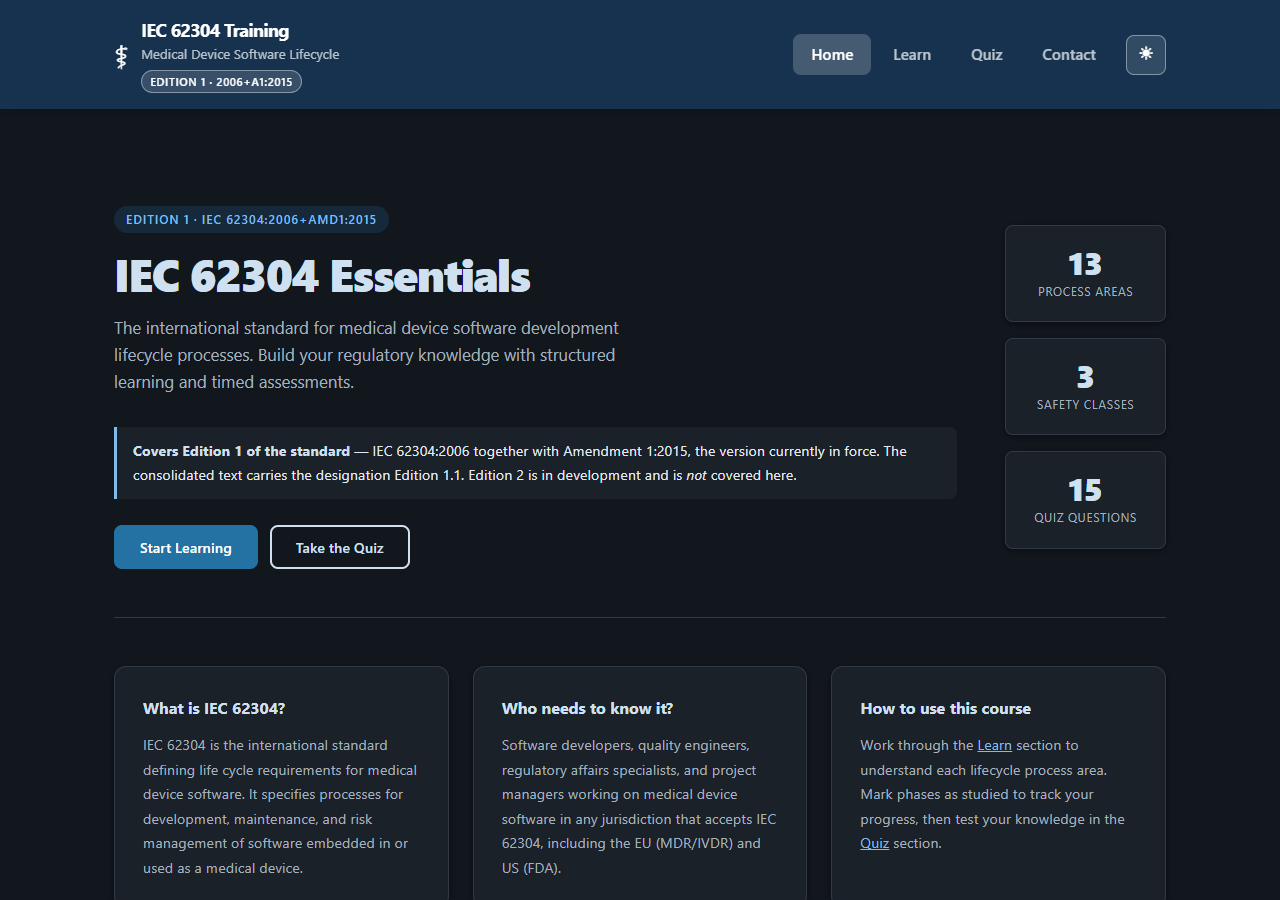
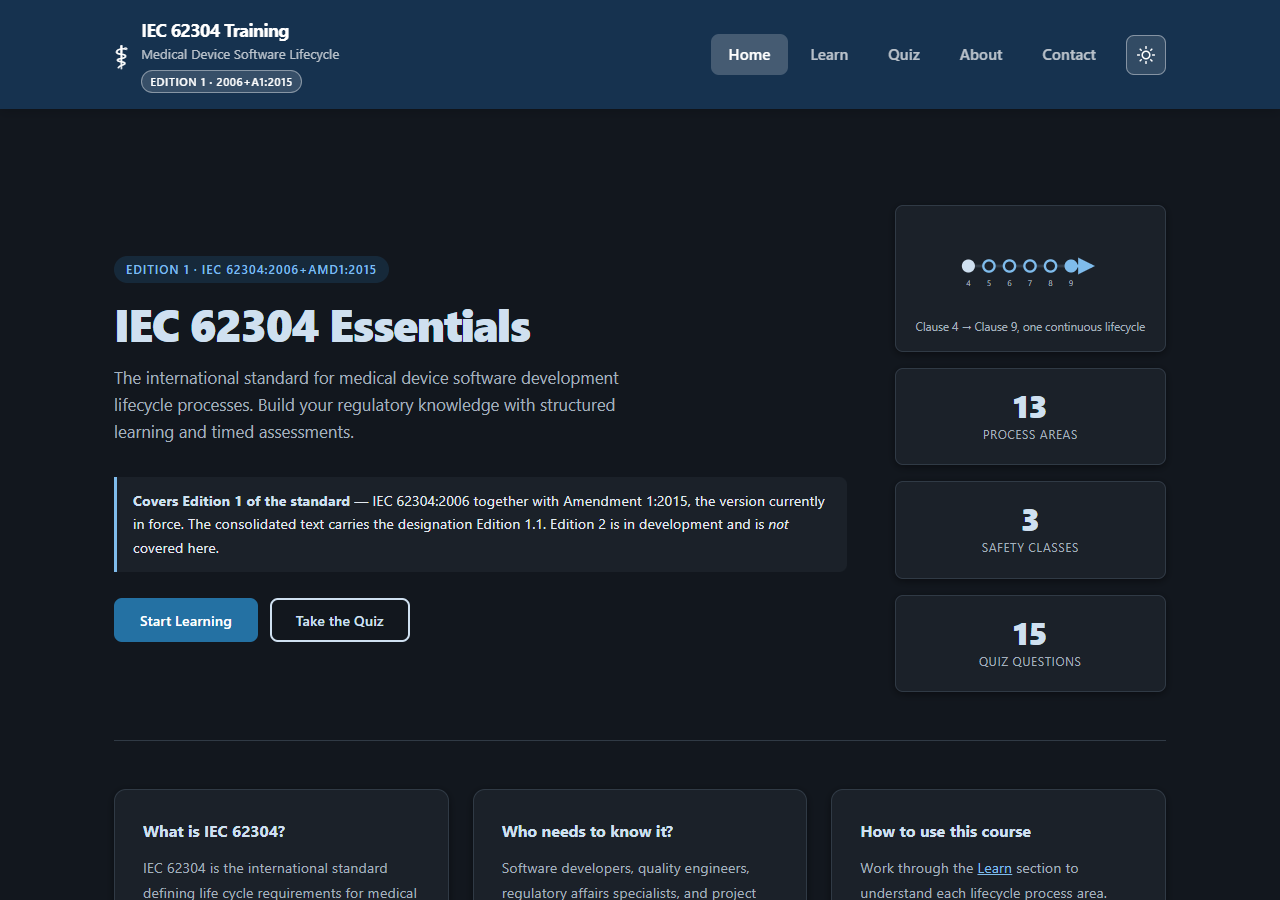
Adding a graphic to index page - as it is a bit boring right now! A simple flow (flow.svg) diagram of the clauses as a graphic-card in the hero section. All tests passed .

diff --git a/index.html b/index.html
@@ -103,6 +103,37 @@
           </div>
         </div>
         <div class="hero-stats">
+          <!-- LIFECYCLE FLOW GRAPHIC — six nodes, Clause 4 through Clause 9,
+               one continuous line: the standard is a single lifecycle, not
+               six unrelated clauses. Sits in the same .stat-card shell as
+               the three stat cards below it. Purely decorative on top of a
+               fact already stated in the numbered stats, so the SVG itself
+               is aria-hidden and the caption carries the accessible text. -->
+          <div class="stat-card graphic-card">
+            <svg class="flow-svg" viewBox="0 0 160 90" width="150" height="84" aria-hidden="true">
+              <defs>
+                <marker id="flow-arrow" viewBox="0 0 10 10" refX="8" refY="5" markerWidth="6" markerHeight="6" orient="auto-start-reverse">
+                  <path d="M0,0 L10,5 L0,10 z" fill="var(--accent)"></path>
+                </marker>
+              </defs>
+              <line x1="14" y1="45" x2="140" y2="45" stroke="var(--border)" stroke-width="3"></line>
+              <line x1="124" y1="45" x2="146" y2="45" stroke="var(--accent)" stroke-width="3" marker-end="url(#flow-arrow)"></line>
+              <circle cx="14" cy="45" r="7" fill="var(--heading)"></circle>
+              <circle cx="36" cy="45" r="6" fill="var(--bg-white)" stroke="var(--accent)" stroke-width="2.5"></circle>
+              <circle cx="58" cy="45" r="6" fill="var(--bg-white)" stroke="var(--accent)" stroke-width="2.5"></circle>
+              <circle cx="80" cy="45" r="6" fill="var(--bg-white)" stroke="var(--accent)" stroke-width="2.5"></circle>
+              <circle cx="102" cy="45" r="6" fill="var(--bg-white)" stroke="var(--accent)" stroke-width="2.5"></circle>
+              <circle cx="124" cy="45" r="7" fill="var(--accent)"></circle>
+              <text x="14" y="66" font-size="9" text-anchor="middle" fill="var(--text-muted)">4</text>
+              <text x="36" y="66" font-size="9" text-anchor="middle" fill="var(--text-muted)">5</text>
+              <text x="58" y="66" font-size="9" text-anchor="middle" fill="var(--text-muted)">6</text>
+              <text x="80" y="66" font-size="9" text-anchor="middle" fill="var(--text-muted)">7</text>
+              <text x="102" y="66" font-size="9" text-anchor="middle" fill="var(--text-muted)">8</text>
+              <text x="124" y="66" font-size="9" text-anchor="middle" fill="var(--text-muted)">9</text>
+            </svg>
+            <span class="flow-caption">Clause&nbsp;4 &rarr; Clause&nbsp;9, one continuous lifecycle</span>
+          </div>
+
           <!-- Keep this figure in step with the number of topics in
                data/phases.json. The home page deliberately loads no data, so
                this one number is hardcoded rather than counted. -->

diff --git a/style.css b/style.css
@@ -764,6 +764,30 @@ a {
   letter-spacing: 0.05em;
 }
 
+/* ===== HOME: LIFECYCLE FLOW =====
+   A small diagram in the same .stat-card shell as the three stat cards
+   beside it — one more card in the stack, not a hero redesign. Six nodes,
+   Clause 4 through Clause 9, one line with an arrow at the end: the
+   standard is a single continuous lifecycle, not six unrelated clauses.
+   Built from <line>/<circle>/<marker> only, no hand-authored path data
+   beyond the small triangular arrowhead. */
+.graphic-card {
+  padding: 18px 20px 16px;
+}
+
+.flow-svg {
+  display: block;
+  margin: 0 auto;
+}
+
+.flow-caption {
+  display: block;
+  font-size: 0.72rem;
+  color: var(--text-muted);
+  margin-top: 10px;
+  line-height: 1.5;
+}
+
 /* ===== HOME: INFO CARDS ===== */
 
 .info-cards {
@@ -3085,11 +3109,20 @@ a {
 
   .hero-stats {
     flex-direction: row;
+    flex-wrap: wrap;
   }
 
   .stat-card {
     flex: 1;
     padding: 16px;
+  }
+
+  /* The flow graphic is wider than the three number cards it sits beside
+     (it needs room for six labelled nodes) — flex:1 like them would
+     squeeze it illegibly at this width. Full width of its own row instead,
+     with the three stat cards wrapping onto the row beneath. */
+  .graphic-card {
+    flex: 1 1 100%;
   }
 
   .hero-title {

diff --git a/README.md b/README.md
@@ -767,4 +767,4 @@ IEC 62304:2006 + Amendment 1:2015 — Medical device software — Software life 
 
 ### Use of Artificial Intelligence
 
-AI (Claude from Anthropic) was used throughout this module's learning experience in it's capacity to explain coding concepts further and provide updated commenting in some sections, that were not adequately explained by the author.  This was done to support the learner/author and readers of this application.  Going over aspects in this manner have helped to cement the concepts.  The code was developed by the author but when 'stuck' Claude was a useful back-up assistant for answering questions. Claude also helps with running testing in the background after changes have been made to satisfy regression testing. The ability to use AI in this way makes for a more robust and real-time learning experience, which I am grateful for.  The classes point to all the aspects that need to be understood and the practice brings this to life.  The UCD course is highly recommended as a result of the personal satisfaction and learning I have gained over the preceding months.  Thanks to the best tutor - Housam!
+AI (Claude from Anthropic) was used throughout this module's learning experience in it's capacity to explain coding concepts further and provide updated commenting in some sections, that were not adequately explained by the author.  This was done to support the learner/author and readers of this application.  Going over aspects in this manner have helped to cement the concepts.  The code was developed by the author but when 'stuck' Claude was a useful back-up assistant for answering questions. Claude also helps with running testing in the background after changes have been made to satisfy regression testing. The ability to use AI in this way makes for a more robust and real-time learning experience, which I am grateful for.  The classes point to all the aspects that need to be understood and the practice brings this to life.  The UCD course is highly recommended as a result of the personal satisfaction and learning I have gained over the preceding months.  Thanks to this well designed course and the best tutor - Housam!
